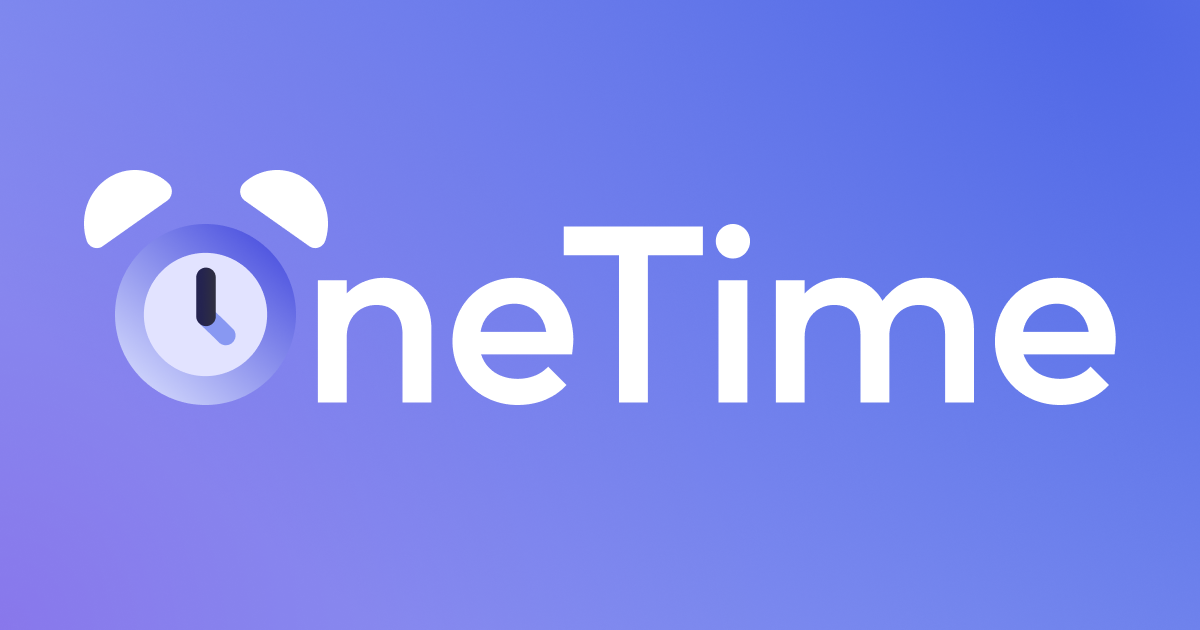
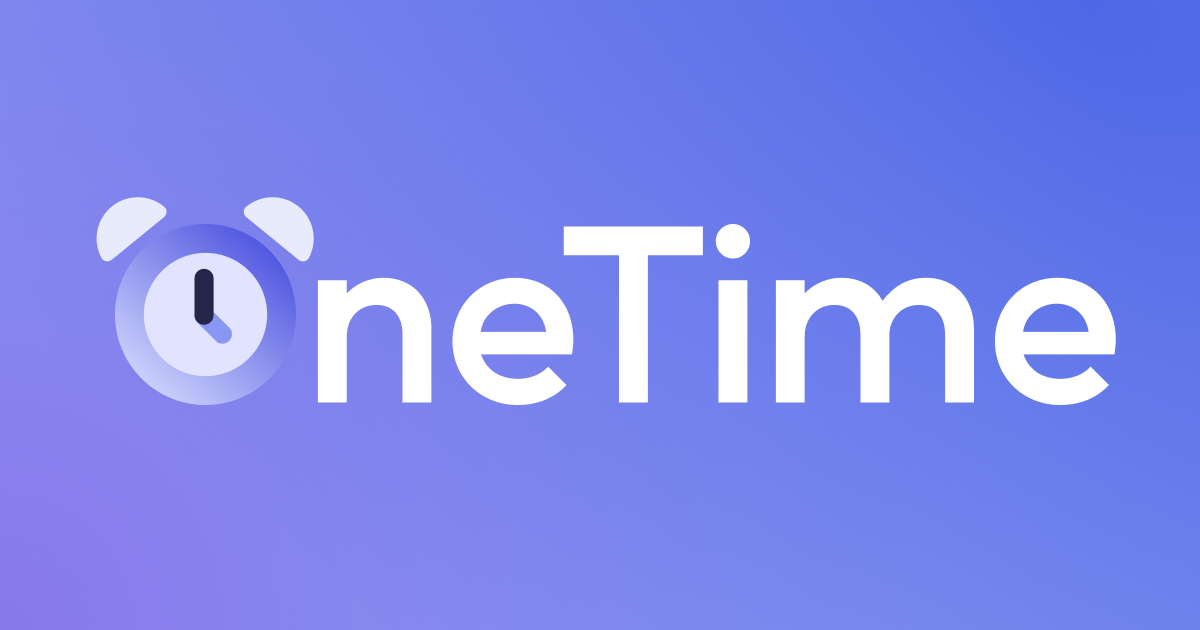
[Design] 공유 팝업 포커스 시 가상 키보드 올라오는 문제 수정 및 로고 아이콘 수정

diff --git a/src/components/share-button/ShareKakaoButton.tsx b/src/components/share-button/ShareKakaoButton.tsx
@@ -32,7 +32,7 @@ export default function ShareKakaoButton({ event }: ShareKakaoButtonProps) {
       content: {
         title: `${event.title} - OneTime`,
         description: `스케줄 등록 요청이 도착했습니다.`,
-        imageUrl: `${import.meta.env.VITE_SITE_DOMAIN}/images/kakao/kakao-thumbnail.png`,
+        imageUrl: `${import.meta.env.VITE_SITE_DOMAIN}/images/kakao/kakaotalk-share-thumbnail.png`,
         link: {
           webUrl: url,
           mobileWebUrl: url,

diff --git a/src/components/pop-up/SharePopUp.tsx b/src/components/pop-up/SharePopUp.tsx
@@ -70,6 +70,7 @@ export default function SharePopUp({ onClose, event }: SharePopUpProps) {
               inputRef={urlInputRef}
               value={currentUrl}
               className="text-sm-100 caret-transparent"
+              inputMode="none"
             />
             <div className="flex items-center justify-between">
               <div
